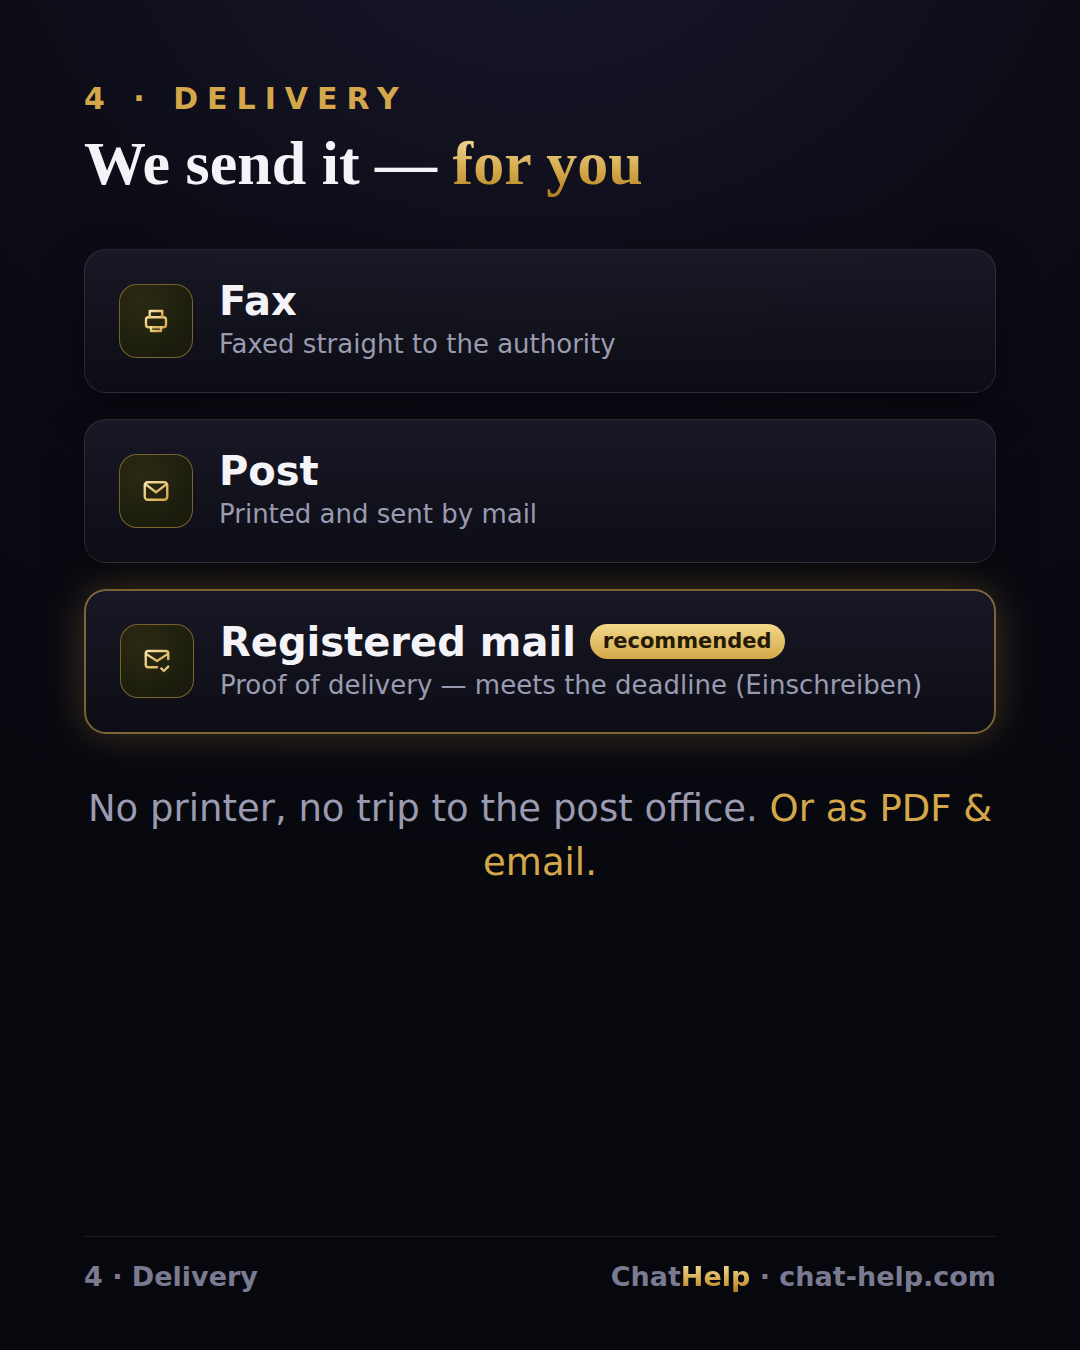
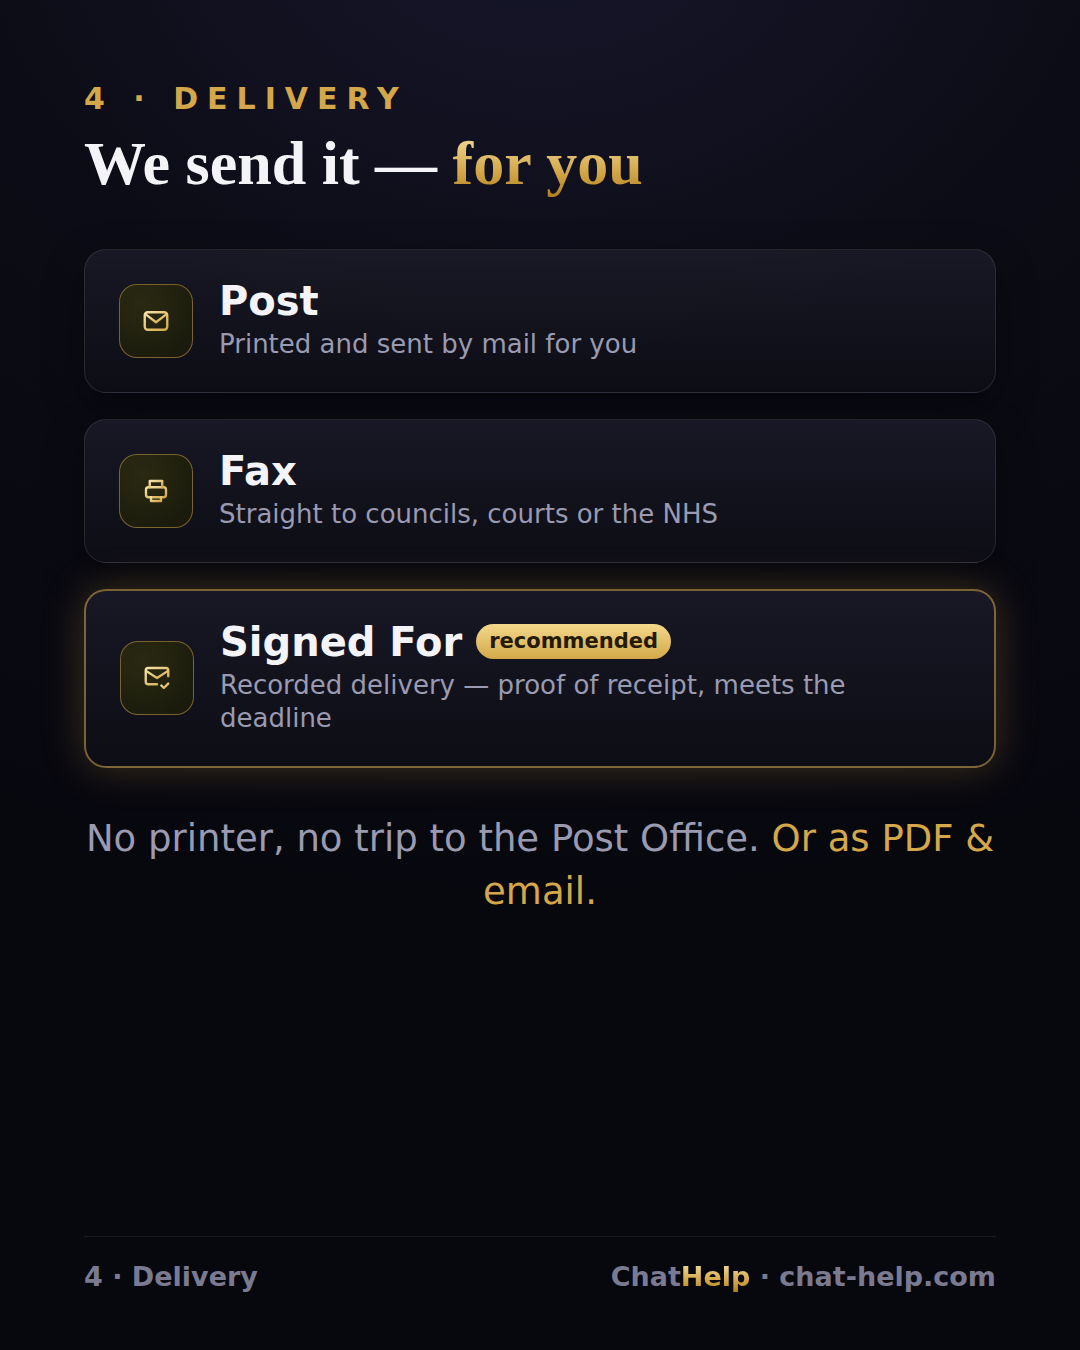
Localise English carousel for the UK (English legal letter, no German)
- Bescheid -> UK NOTICE (rent increase, Section 13 Housing Act 1988); output is
  an English letter referring to the First-tier Tribunal; EUR->GBP; Germany->UK.
- Slide 1 headline no longer says 'German'.
- Delivery localised: Post / Fax (councils, courts, NHS) / Signed For (recorded).
- CAPTIONS-EN.md rewritten for the UK audience.

Claude-Session: https://claude.ai/code/session_01QV6wX8DoQy1Ckqv9vL3mvt

diff --git a/marketing/instagram/carousel-en.html b/marketing/instagram/carousel-en.html
@@ -1,5 +1,5 @@
 <meta charset="utf-8">
-<title>ChatHelp — Carousel (EN)</title>
+<title>ChatHelp — Carousel (UK)</title>
 <style>
   :root{
     --bg0:#07070e;--bg1:#0c0c16;--ink:#F4F4F8;--mute:#9a9ab0;--mute2:#7a7a90;
@@ -92,7 +92,7 @@
     <div class="tag" style="margin-top:20px">Legal · Simple · Digital</div>
   </div>
   <div style="position:absolute;left:84px;right:84px;top:790px;text-align:center">
-    <div class="h1">Got an official<br>German letter?</div>
+    <div class="h1">An official letter<br>you can't make sense of?</div>
     <div class="lead" style="margin-top:34px">Don't panic. <span class="gold">You explain it</span> — verified AI does the rest.</div>
     <div style="margin-top:44px"><span class="swipe">Swipe → how it works</span></div>
   </div>
@@ -105,19 +105,19 @@
     <div class="paper" style="width:660px">
       <div style="display:flex;justify-content:space-between;align-items:flex-start">
         <div><div style="width:56px;height:56px;border-radius:50%;background:#20304a;border:3px solid #35507a;margin-bottom:14px"></div>
-          <div style="font:800 28px/1.1 var(--sans);color:#22324c">BEHÖRDE · AMT</div>
-          <div style="font:600 20px/1.3 var(--mono);color:#7a7360;margin-top:6px">Ref: 2026 / 44-871</div></div>
-        <div style="font:600 20px/1.4 var(--mono);color:#7a7360">03.07.2026</div>
+          <div style="font:800 28px/1.1 var(--sans);color:#22324c">LANDLORD · LETTING AGENT</div>
+          <div style="font:600 20px/1.3 var(--mono);color:#7a7360;margin-top:6px">Ref: 2026 / 44-871 · 03/07/2026</div></div>
       </div>
-      <div style="font:800 56px/1.05 var(--serif);color:#1c2942;margin:26px 0 8px">BESCHEID</div>
-      <div style="height:7px;width:200px;background:var(--red);border-radius:6px;margin-bottom:24px"></div>
-      <div style="font:400 26px/1.6 var(--sans);color:#5a5342">…Gegen diesen Bescheid können Sie innerhalb der Frist Widerspruch einlegen…</div>
-      <div style="margin-top:22px;font:700 25px/1.3 var(--sans);color:var(--red)">⚠ Objection deadline: 1 month</div>
-      <div class="stamp" style="position:absolute;right:-14px;top:38px">deadline</div>
+      <div style="font:800 56px/1.05 var(--serif);color:#1c2942;margin:26px 0 4px">NOTICE</div>
+      <div style="font:600 22px/1.3 var(--sans);color:#5a5342;margin-bottom:12px">of rent increase · Section 13, Housing Act 1988</div>
+      <div style="height:7px;width:200px;background:var(--red);border-radius:6px;margin-bottom:22px"></div>
+      <div style="font:400 26px/1.6 var(--sans);color:#5a5342">…you may refer this notice to the First-tier Tribunal before the date it takes effect…</div>
+      <div style="margin-top:22px;font:700 25px/1.3 var(--sans);color:var(--red)">⚠ Deadline to challenge: 1 month</div>
+      <div class="stamp" style="position:absolute;right:-14px;top:40px">deadline</div>
     </div>
   </div>
   <div style="position:absolute;left:84px;right:84px;top:930px;text-align:center">
-    <div class="h2">A letter you can't read.<br><span class="g">A deadline that's ticking.</span></div>
+    <div class="h2">A letter you don't understand.<br><span class="g">A deadline that's ticking.</span></div>
   </div>
   <div class="foot"><span>The problem</span><span>Chat<span class="g">Help</span> · chat-help.com</span></div>
 </div></div>
@@ -126,9 +126,9 @@
 <div class="slide"><div class="pad">
   <span class="k">1 · Tell it</span>
   <div style="margin-top:80px">
-    <div class="bub me"><div class="who">YOU</div>I want to object to my rent increase. I've attached the letter from the authority.
-      <div style="display:flex;gap:10px;margin-top:16px;flex-wrap:wrap"><span class="chip">Bescheid.jpg</span><span class="chip">Deadline: 1 month</span><span class="chip">€250</span></div></div>
-    <div class="bub ai"><div class="who">CHATHELP AI</div>Got it. I've read the date and amount from your document. I'll check the rent cap under § 558 BGB. When did your tenancy start?</div>
+    <div class="bub me"><div class="who">YOU</div>I want to challenge my rent increase. I've attached the notice from my landlord.
+      <div style="display:flex;gap:10px;margin-top:16px;flex-wrap:wrap"><span class="chip">Notice.jpg</span><span class="chip">Deadline: 1 month</span><span class="chip">£250/mo</span></div></div>
+    <div class="bub ai"><div class="who">CHATHELP AI</div>Got it. I've read the date and the new amount from your notice. I'll check whether it's above the local market rate and how to refer it to the tribunal. When did your tenancy start?</div>
   </div>
   <div style="position:absolute;left:84px;right:84px;top:860px">
     <div class="h2" style="text-align:center">Explain it<br><span class="g">in your own words.</span></div>
@@ -142,7 +142,7 @@
   <span class="k">2 · Analysis</span>
   <div class="h2" style="margin-top:18px">Real facts — <span class="g">checked by two AIs</span></div>
   <div class="grid" style="margin-top:40px">
-    <div class="node"><div class="ic" id="i1"></div><div class="nt">Knowledge base</div><div class="nd">Real legal sources: statutes, deadlines, rulings</div></div>
+    <div class="node"><div class="ic" id="i1"></div><div class="nt">Knowledge base</div><div class="nd">Real legal sources: statutes, case law, deadlines</div></div>
     <div class="node"><div class="t2">AI 1</div><div class="ic" id="i2"></div><div class="nt">Research</div><div class="nd">pulls the real facts — no guessing</div></div>
     <div class="node"><div class="t2">AI 2</div><div class="ic" id="i3"></div><div class="nt">Verification</div><div class="nd">a second AI checks every detail</div></div>
     <div class="node"><div class="ic" id="i4"></div><div class="nt">Drafting</div><div class="nd">together, flawless, ready to send</div></div>
@@ -165,7 +165,7 @@
     </div>
     <div class="cmp cmpGood">
       <div class="chd"><span id="g0"></span> <span>Chat<b style="color:var(--gold2)">Help</b> AI</span></div>
-      <div class="crow"><span class="vic" data-v></span><span>Real legal sources: statutes, rulings</span></div>
+      <div class="crow"><span class="vic" data-v></span><span>Real legal sources: statutes, case law</span></div>
       <div class="crow"><span class="vic" data-v></span><span>Verified by a <b style="color:var(--gold1)">second AI</b></span></div>
       <div class="crow"><span class="vic" data-v></span><span>Tailored to your case, ready to send</span></div>
     </div>
@@ -184,17 +184,18 @@
         <div style="font:700 34px/1 var(--serif)">Chat<b style="color:var(--gold3)">Help</b></div>
         <span class="badge"><span id="ck"></span> Done</span>
       </div>
-      <p style="color:#6a6350"><b style="color:#2a2418">Max Mustermann</b> · Musterstraße 12, Berlin</p>
-      <p style="font:700 28px/1.35 var(--sans);color:#241f14;margin:14px 0">Betreff: Widerspruch gegen die Mieterhöhung</p>
-      <p>Sehr geehrte Damen und Herren, hiermit lege ich <b>fristgerecht Widerspruch</b> ein. Die Erhöhung überschreitet die <b>Kappungsgrenze gemäß § 558 Abs. 3 BGB</b>…</p>
-      <p style="margin-top:10px">Mit freundlichen Grüßen<br>Max Mustermann</p>
+      <p style="color:#6a6350"><b style="color:#2a2418">Jane Smith</b> · 12 Example Road, London</p>
+      <p style="font:700 28px/1.35 var(--sans);color:#241f14;margin:14px 0">Re: Challenge to the proposed rent increase</p>
+      <p>Dear Sir or Madam, I am writing to formally challenge the rent increase served under <b>section 13 of the Housing Act 1988</b>. The proposed rent exceeds the market rate for comparable local properties…</p>
+      <p style="margin-top:10px">I intend to refer this notice to the <b>First-tier Tribunal (Property Chamber)</b>.</p>
+      <p style="margin-top:10px">Yours faithfully,<br>Jane Smith</p>
     </div>
   </div>
-  <div style="display:flex;gap:18px;justify-content:center;margin-top:32px">
+  <div style="display:flex;gap:18px;justify-content:center;margin-top:28px">
     <span class="outchip"><span id="pk"></span> PDF</span><span class="outchip"><span id="mk"></span> Email</span><span class="outchip"><span id="kk"></span> Copy</span>
   </div>
-  <div style="position:absolute;left:84px;right:84px;top:1035px;text-align:center">
-    <div class="h2">A perfect German letter — <span class="g">in seconds</span></div>
+  <div style="position:absolute;left:84px;right:84px;top:1055px;text-align:center">
+    <div class="h2">A ready-to-send letter — <span class="g">in seconds</span></div>
   </div>
   <div class="foot"><span>3 · Result</span><span>Chat<span class="g">Help</span> · chat-help.com</span></div>
 </div></div>
@@ -204,11 +205,11 @@
   <span class="k">4 · Delivery</span>
   <div class="h2" style="margin-top:16px">We send it — <span class="g">for you</span></div>
   <div style="margin-top:52px;display:flex;flex-direction:column;gap:26px">
-    <div class="vcard"><div class="vic2" id="vf"></div><div><div class="vt">Fax</div><div class="vd">Faxed straight to the authority</div></div></div>
-    <div class="vcard"><div class="vic2" id="vb"></div><div><div class="vt">Post</div><div class="vd">Printed and sent by mail</div></div></div>
-    <div class="vcard vcardHi"><div class="vic2" id="ve"></div><div><div class="vt">Registered mail <span class="vbadge">recommended</span></div><div class="vd">Proof of delivery — meets the deadline (Einschreiben)</div></div></div>
+    <div class="vcard"><div class="vic2" id="vf"></div><div><div class="vt">Post</div><div class="vd">Printed and sent by mail for you</div></div></div>
+    <div class="vcard"><div class="vic2" id="vb"></div><div><div class="vt">Fax</div><div class="vd">Straight to councils, courts or the NHS</div></div></div>
+    <div class="vcard vcardHi"><div class="vic2" id="ve"></div><div><div class="vt">Signed For <span class="vbadge">recommended</span></div><div class="vd">Recorded delivery — proof of receipt, meets the deadline</div></div></div>
   </div>
-  <div class="lead" style="text-align:center;margin-top:48px">No printer, no trip to the post office. <span class="gold">Or as PDF &amp; email.</span></div>
+  <div class="lead" style="text-align:center;margin-top:44px">No printer, no trip to the Post Office. <span class="gold">Or as PDF &amp; email.</span></div>
   <div class="foot"><span>4 · Delivery</span><span>Chat<span class="g">Help</span> · chat-help.com</span></div>
 </div></div>
 
@@ -224,7 +225,7 @@
     <div class="wm g" style="--wm:56px;margin-top:40px">chat-help.com</div>
     <div class="lead" style="margin-top:56px">Basic · Pro · Elite — monthly cases included</div>
   </div>
-  <div class="foot" style="justify-content:center"><span>@chathelp · Your digital legal assistant · Germany</span></div>
+  <div class="foot" style="justify-content:center"><span>@chathelp · Your digital legal assistant · United Kingdom</span></div>
 </div></div>
 
 <script>
@@ -252,6 +253,6 @@ g0.innerHTML=emblemSVG(46);
 b0.innerHTML=`<svg width="42" height="42" viewBox="0 0 24 24" fill="none" stroke="#9a9ab0" stroke-width="1.7" stroke-linecap="round" stroke-linejoin="round"><path d="M4 5h16a1 1 0 011 1v9a1 1 0 01-1 1H9l-4 3v-3H4a1 1 0 01-1-1V6a1 1 0 011-1z"/></svg>`;
 document.querySelectorAll('[data-x]').forEach(e=>e.innerHTML=`<svg width="30" height="30" viewBox="0 0 24 24" fill="none" stroke="#e0685e" stroke-width="2.6" stroke-linecap="round"><path d="M6 6l12 12M18 6L6 18"/></svg>`);
 document.querySelectorAll('[data-v]').forEach(e=>e.innerHTML=icon('check'));
-vf.innerHTML=icon('fax');vb.innerHTML=icon('mail');ve.innerHTML=icon('mailcheck');
+vf.innerHTML=icon('mail');vb.innerHTML=icon('fax');ve.innerHTML=icon('mailcheck');
 window.__ready=true;
 </script>

diff --git a/marketing/instagram/CAPTIONS-EN.md b/marketing/instagram/CAPTIONS-EN.md
@@ -1,43 +1,42 @@
-# ChatHelp — Instagram caption (English carousel)
+# ChatHelp — Instagram caption (English / UK carousel)
 
-> Audience: English speakers in Germany (expats) who get official German letters.
+> Market: United Kingdom. ChatHelp produces a ready-to-send **English legal letter**.
 > Angle: **not a template-filler — real analysis, double-checked, then sent for you.**
 
 ## Carousel caption — ready to paste
 
 ```
-📩 Got an official German letter — and no idea what it says?
+📩 An official letter with a deadline — and no idea what to do?
 
 With ChatHelp you just explain your situation in your own words and upload the
-document. Then several AIs work together — for real:
+letter. Then several AIs work together — for real:
 
-📚 Real legal sources — statutes, deadlines, rulings (not guesses)
+📚 Real legal sources — statutes, case law, deadlines (not guesses)
 🛡 A second AI double-checks every detail
-✍ A ready-to-send German document in seconds — not a template with your name dropped in
-📮 And we send it for you — by fax, post or registered mail (Einschreiben, with proof of delivery)
+✍ A ready-to-send legal letter in seconds — not a template with your name dropped in
+📮 And we send it for you — by post, fax or Signed For (recorded) delivery, with proof
 
-No generic template answers. No Behördendeutsch. No trip to the post office.
+No generic template answers. No legalese. No trip to the Post Office.
 🔒 Your data stays private.
 
-Legal help in Germany, made simple.
+Legal help, made simple.
 👉 Start now: chat-help.com
 
-#ChatHelp #ExpatsInGermany #LifeInGermany #Germany #GermanBureaucracy #Behörde
-#Widerspruch #Bescheid #Mietrecht #RentIncrease #LegalTech #AI #Ausländerbehörde
-#ExpatLife #Auswandern #Berlin #Munich #Frankfurt
+#ChatHelp #UK #TenantRights #RentIncrease #Section13 #KnowYourRights #Renters
+#London #LegalTech #AI #ConsumerRights #LegalHelp #CouncilTax #HousingAct #CitizensAdvice
 ```
 
 ## Shorter version (feed / story)
 
 ```
-Official German letter you can't read? 📩 You explain it — several AIs pull real
-legal facts, double-check them, and write your ready-to-send German document.
-Not a template. We even send it by fax, post or registered mail. 👉 chat-help.com
-#ChatHelp #ExpatsInGermany #Germany #LegalTech #Widerspruch
+Official letter you can't make sense of? 📩 You explain it — several AIs pull real
+legal facts, double-check them, and write your ready-to-send letter. Not a template.
+We even send it by post, fax or Signed For delivery. 👉 chat-help.com
+#ChatHelp #UK #TenantRights #LegalTech #KnowYourRights
 ```
 
 ## Alternate hooks (first line matters most)
 
-- `Official letter from a German authority? Don't panic — read on. 👇`
-- `Germans dread Behördenpost too. You don't have to. 📩`
-- `Not a template with your name in it — real legal analysis, in your language.`
+- `Official letter from your council, landlord or HMRC? Don't panic — read on. 👇`
+- `Not a template with your name in it — real legal analysis, in plain English.`
+- `A deadline you didn't ask for. A letter you didn't understand. Sorted. 📩`

diff --git a/marketing/instagram/README.md b/marketing/instagram/README.md
@@ -20,8 +20,8 @@ formuliert gemeinsam ein **fehlerfreies, versandfertiges** Dokument. **Geprüft 
 | `carousel/06-ergebnis.png` | Karussell 6 — Schritt 3: versandfertiges Dokument | 1080×1350 |
 | `carousel/07-versand.png` | Karussell 7 — Schritt 4: **Versand — Fax · Brief · Einschreiben** | 1080×1350 |
 | `carousel/08-cta.png` | Karussell 8 — CTA: chat-help.com | 1080×1350 |
-| `carousel-en/*.png` | **English carousel** (8 slides, same story) für Expats in DE — Angle „not a template, real analysis" | 1080×1350 |
-| `CAPTIONS-EN.md` | Englische Instagram-Caption + Hashtags (Expat-Zielgruppe) | — |
+| `carousel-en/*.png` | **English carousel — UK** (8 slides): produces an English legal letter (rent-increase challenge, Housing Act 1988); angle „not a template, real analysis"; delivery via post/fax/Signed For | 1080×1350 |
+| `CAPTIONS-EN.md` | English (UK) Instagram caption + hashtags | — |
 | `CAPTIONS.md` | Fertige Beschreibungstexte (DE, optional TR) + Hashtags | — |
 | `scene.html` | **Quelle** der Reel-Animation (bearbeitbar) | — |
 | `carousel.html` | **Quelle** der Karussell-Slides (bearbeitbar) | — |
